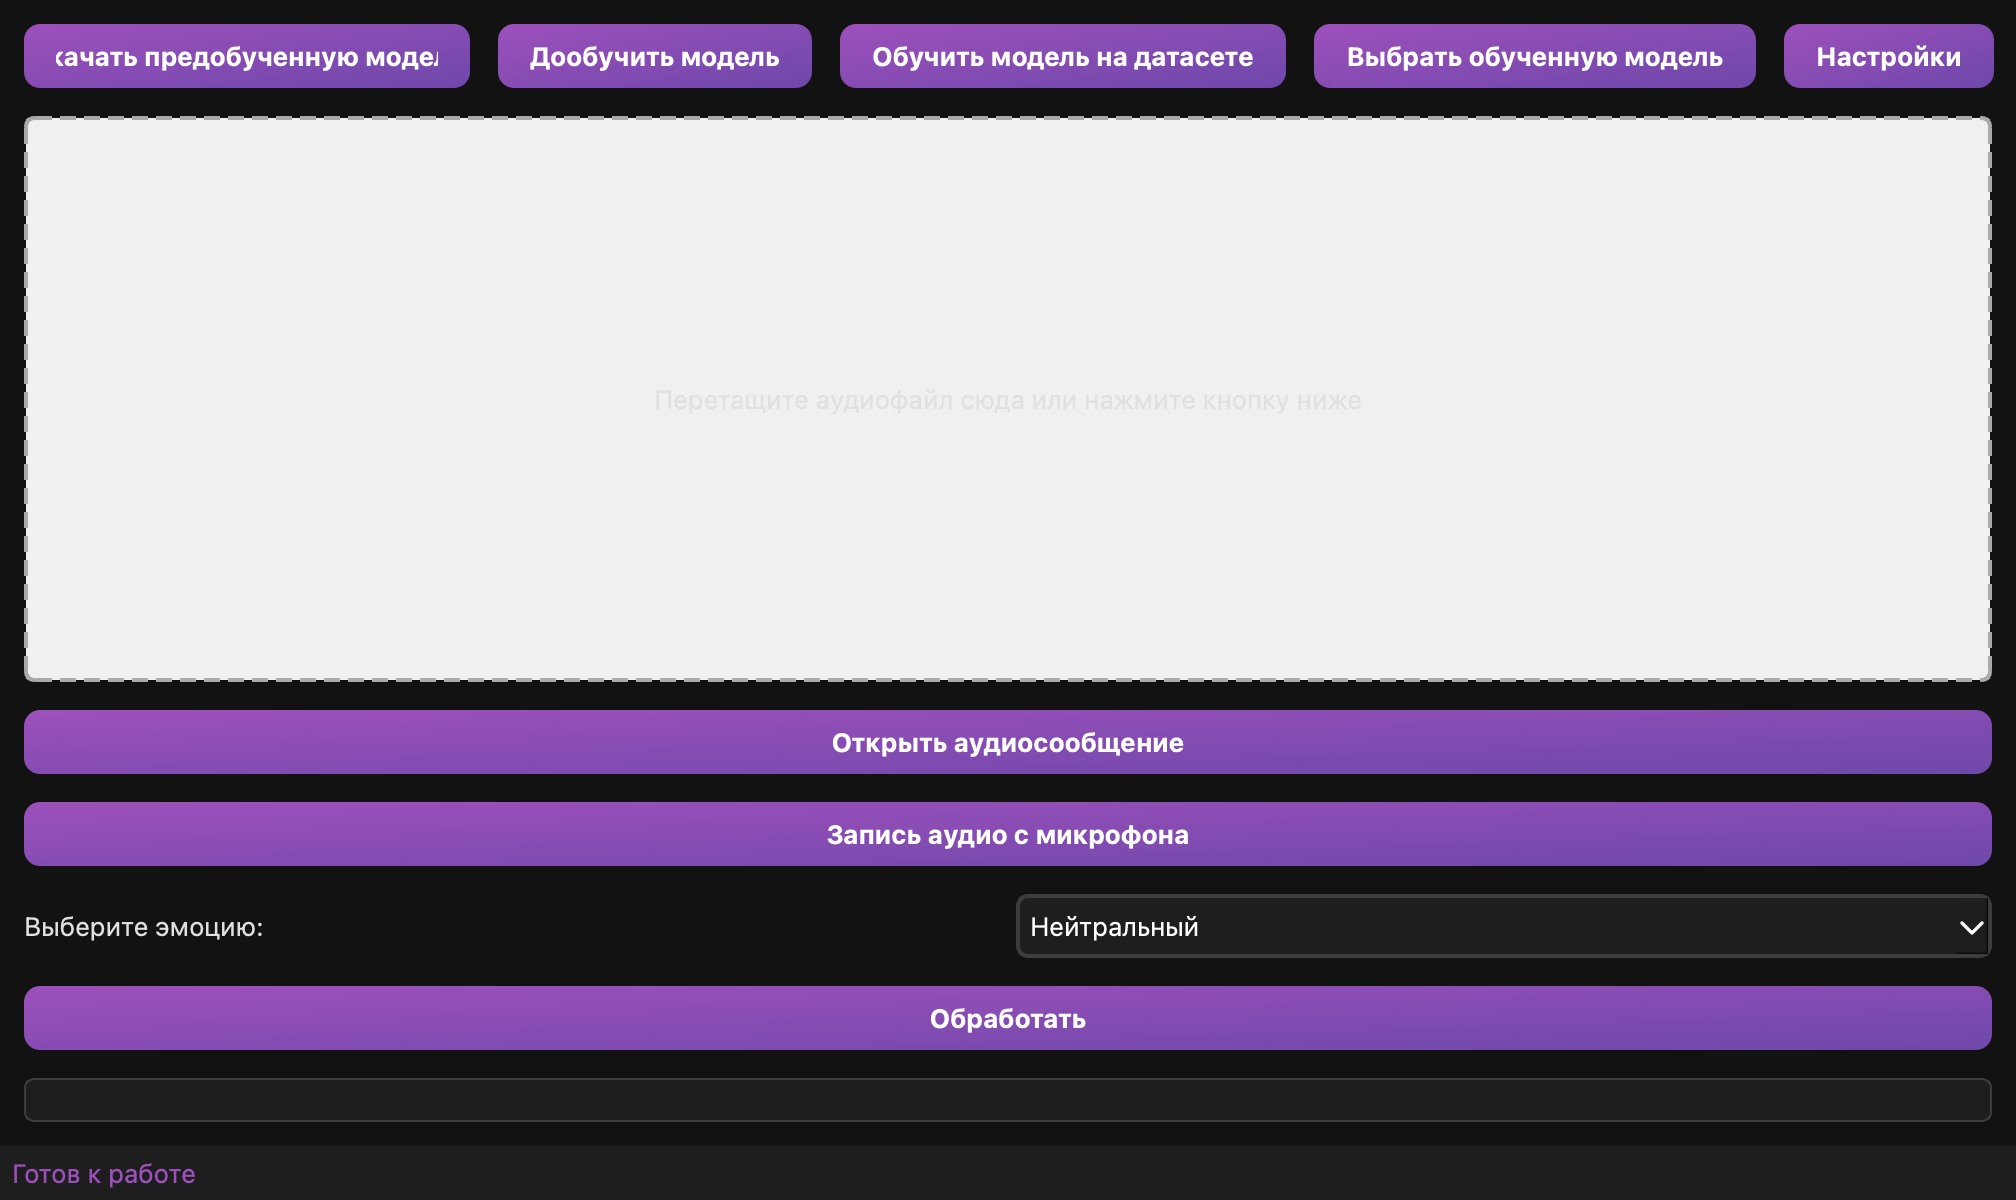
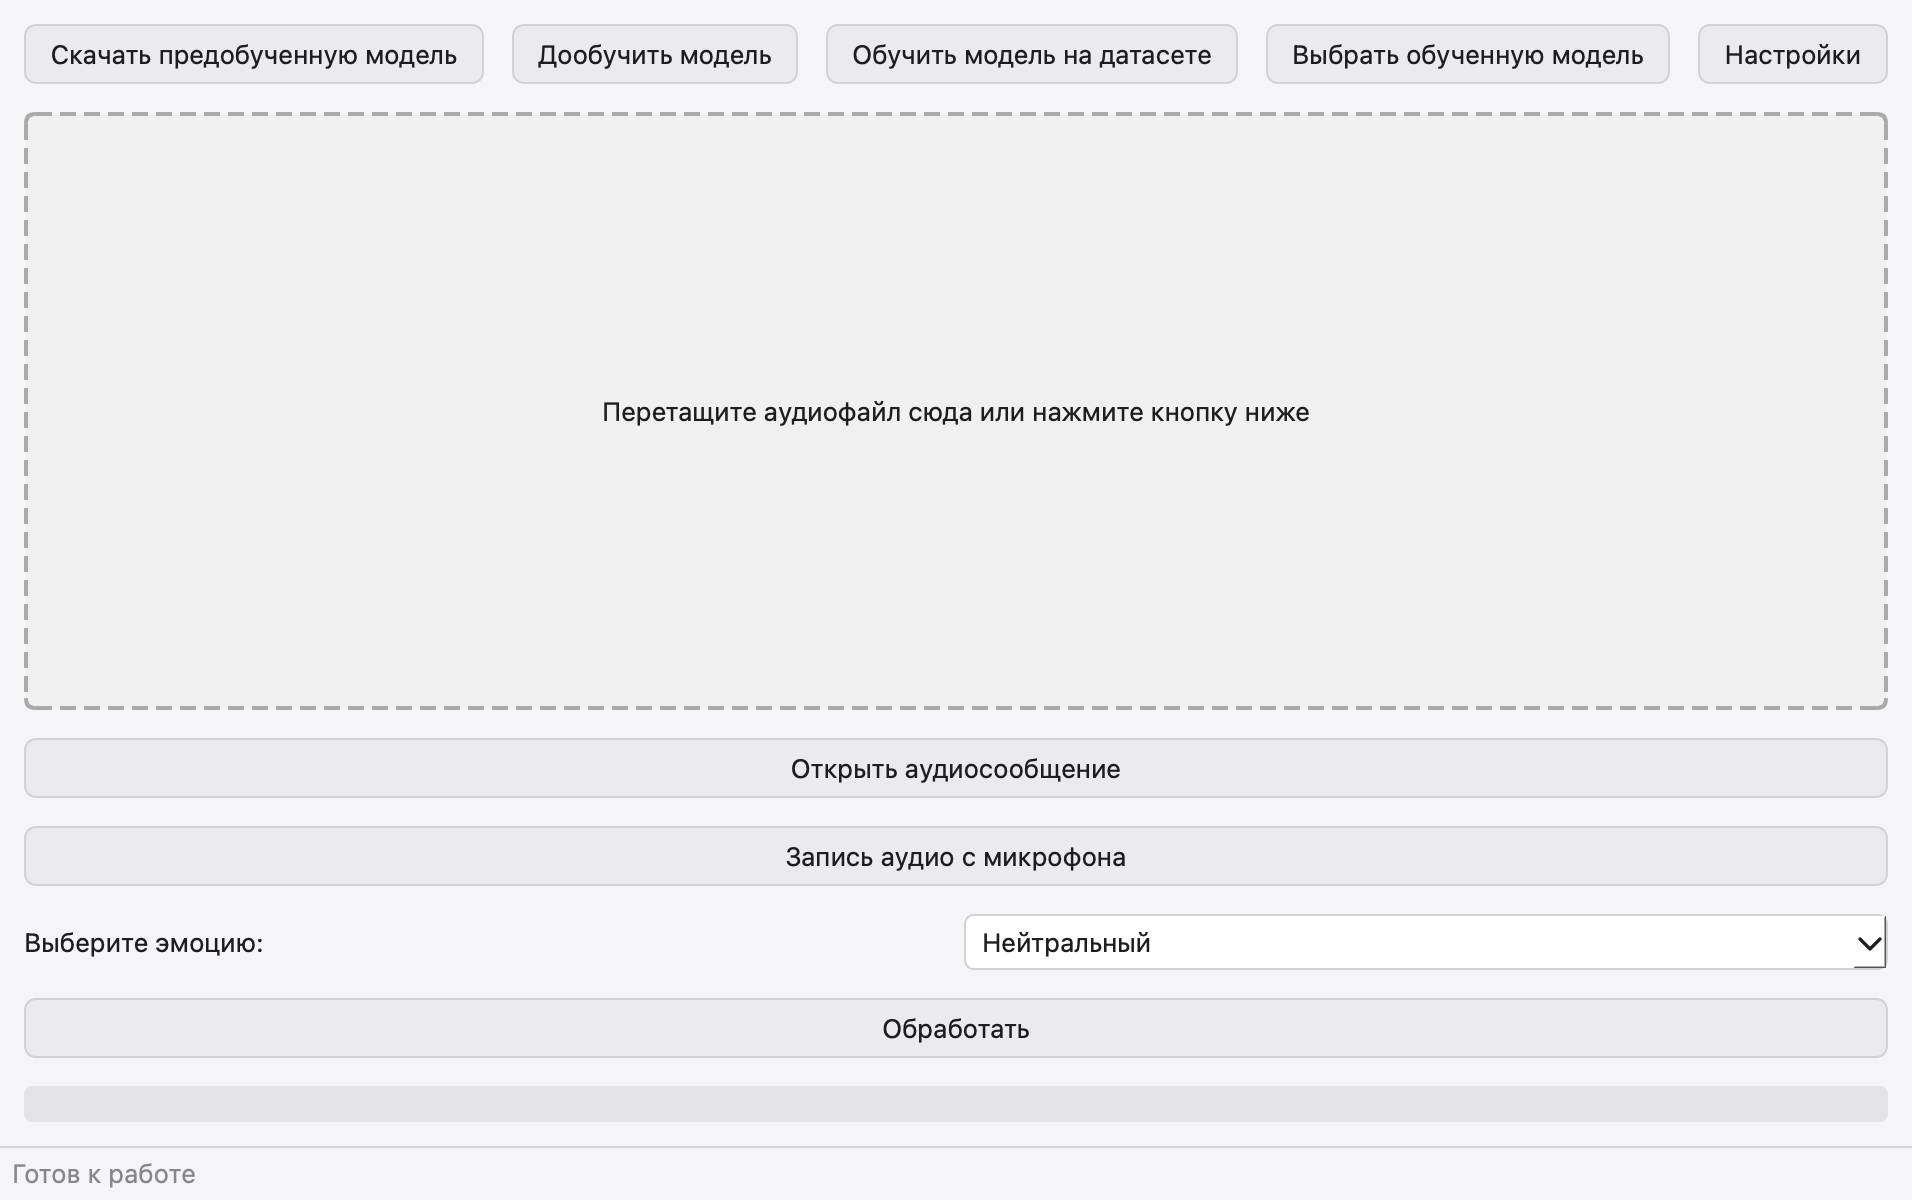
feat: finalize Apple Lavender theme and update assets

diff --git a/src/ui/main_window.py b/src/ui/main_window.py
@@ -316,125 +316,138 @@ class MainWindow(QMainWindow):
             QMessageBox.warning(self, "Ошибка", f"Не удалось открыть диалог: {str(e)}")
 
     def apply_theme(self):
-        """Применяет современную фиолетовую тему к окну"""
+        """Применяет светло-фиолетовую тему в стиле Apple HIG"""
         try:
-            logger.debug(f"Применение фиолетовой темы")
+            logger.debug(f"Применение темы Apple Lavender")
             self.setStyleSheet("""
                 QMainWindow, QDialog {
-                    background-color: #121212;
-                    color: #E0E0E0;
-                    font-family: 'Segoe UI', Arial, sans-serif;
+                    background-color: #F5F5F7;
+                    color: #1D1D1F;
+                    font-family: '.AppleSystemUIFont', 'SF Pro Text', 'Helvetica Neue', Arial, sans-serif;
                 }
                 
                 QLabel {
-                    color: #E0E0E0;
+                    color: #1D1D1F;
                 }
                 
                 QPushButton {
-                    background: qlineargradient(x1:0, y1:0, x2:1, y2:1, stop:0 #9D50BB, stop:1 #6E48AA);
-                    color: white;
-                    border: none;
-                    border-radius: 8px;
-                    padding: 8px 16px;
-                    font-weight: bold;
+                    background-color: #EBEBEE;
+                    color: #1D1D1F;
+                    border: 1px solid #D1D1D6;
+                    border-radius: 6px;
+                    padding: 6px 12px;
                     font-size: 13px;
                 }
                 
                 QPushButton:hover {
-                    background: qlineargradient(x1:0, y1:0, x2:1, y2:1, stop:0 #B162CF, stop:1 #825BBF);
+                    background-color: #E2E2E7;
+                    border: 1px solid #C7C7CC;
                 }
                 
                 QPushButton:pressed {
-                    background: #5E338A;
+                    background-color: #D1D1D6;
                 }
                 
-                QPushButton:disabled {
-                    background: #333333;
-                    color: #888888;
+                /* Основная кнопка действия (Accent) */
+                QPushButton#process_button, QPushButton#record_button, QPushButton#train_button {
+                    background-color: #5E5CE6;
+                    color: white;
+                    border: none;
+                    font-weight: 500;
+                }
+                
+                QPushButton#process_button:hover, QPushButton#record_button:hover, QPushButton#train_button:hover {
+                    background-color: #4845D2;
+                }
+                
+                QPushButton#process_button:pressed, QPushButton#record_button:pressed, QPushButton#train_button:pressed {
+                    background-color: #3B38B6;
                 }
                 
                 QComboBox, QSpinBox, QDoubleSpinBox, QLineEdit {
-                    background-color: #1E1E1E;
-                    color: #FFFFFF;
-                    border: 2px solid #3D3D3D;
-                    border-radius: 6px;
-                    padding: 5px;
-                    selection-background-color: #9D50BB;
+                    background-color: #FFFFFF;
+                    color: #1D1D1F;
+                    border: 1px solid #D1D1D6;
+                    border-radius: 5px;
+                    padding: 4px 8px;
+                    selection-background-color: #5E5CE6;
                 }
                 
                 QComboBox:focus, QSpinBox:focus, QDoubleSpinBox:focus, QLineEdit:focus {
-                    border: 2px solid #9D50BB;
+                    border: 1px solid #5E5CE6;
                 }
                 
                 QProgressBar {
-                    border: 1px solid #3D3D3D;
-                    border-radius: 5px;
+                    border: none;
+                    border-radius: 4px;
                     text-align: center;
-                    background-color: #1E1E1E;
-                    color: white;
+                    background-color: #E3E3E8;
+                    color: #1D1D1F;
+                    height: 8px;
                 }
                 
                 QProgressBar::chunk {
-                    background-color: #9D50BB;
-                    width: 10px;
+                    background-color: #5E5CE6;
+                    border-radius: 4px;
                 }
                 
                 QGroupBox {
-                    border: 2px solid #3D3D3D;
+                    border: 1px solid #D1D1D6;
                     border-radius: 10px;
-                    margin-top: 15px;
-                    font-weight: bold;
-                    color: #9D50BB;
+                    margin-top: 20px;
+                    padding-top: 15px;
+                    font-weight: 600;
+                    background-color: #FFFFFF;
                 }
                 
                 QGroupBox::title {
                     subcontrol-origin: margin;
-                    left: 10px;
-                    padding: 0 3px 0 3px;
-                }
-                
-                QScrollBar:vertical {
-                    border: none;
-                    background: #121212;
-                    width: 10px;
-                    margin: 0px 0px 0px 0px;
-                }
-                
-                QScrollBar::handle:vertical {
-                    background: #3D3D3D;
-                    min-height: 20px;
-                    border-radius: 5px;
-                }
-                
-                QScrollBar::handle:vertical:hover {
-                    background: #9D50BB;
+                    left: 15px;
+                    padding: 0 5px;
+                    color: #5E5CE6;
                 }
                 
                 QStatusBar {
-                    background: #1E1E1E;
-                    color: #9D50BB;
+                    background: #F5F5F7;
+                    color: #86868B;
+                    border-top: 1px solid #D1D1D6;
                 }
                 
                 QMenuBar {
-                    background-color: #1E1E1E;
-                    color: #E0E0E0;
+                    background-color: #F5F5F7;
+                    color: #1D1D1F;
+                    border-bottom: 1px solid #D1D1D6;
                 }
                 
                 QMenuBar::item:selected {
-                    background-color: #9D50BB;
+                    background-color: #EBEBEE;
                 }
                 
                 QMenu {
-                    background-color: #1E1E1E;
-                    color: #E0E0E0;
-                    border: 1px solid #3D3D3D;
+                    background-color: #FFFFFF;
+                    color: #1D1D1F;
+                    border: 1px solid #D1D1D6;
+                    border-radius: 6px;
                 }
                 
                 QMenu::item:selected {
-                    background-color: #9D50BB;
+                    background-color: #5E5CE6;
+                    color: white;
+                }
+                
+                /* Специальный стиль для области сброса файлов */
+                #drop_area {
+                    background-color: #FBFBFF;
+                    border: 2px dashed #D1D1D6;
+                    border-radius: 12px;
+                }
+                
+                #drop_area:hover {
+                    border: 2px dashed #5E5CE6;
+                    background-color: #F0F0FF;
                 }
             """)
-            logger.debug("Фиолетовая тема успешно применена")
+            logger.debug("Тема Apple Lavender успешно применена")
         except Exception as e:
             error_report = create_error_report(e, "Ошибка при применении стиля")
             logger.error(f"Ошибка при применении стиля: {str(e)}")

diff --git a/generate_metrics.py b/generate_metrics.py
@@ -10,30 +10,32 @@ def generate_metrics():
     train_acc = 0.5 + 0.4 * (1 - np.exp(-0.3 * epochs))
     val_acc = 0.48 + 0.38 * (1 - np.exp(-0.25 * epochs))
     
-    # Использование фиолетовой темы
-    plt.style.use('dark_background')
-    plt.figure(figsize=(10, 5))
+    # Использование светлой темы в стиле Apple
+    plt.style.use('default')
+    plt.figure(figsize=(10, 5), facecolor='#F5F5F7')
     
-    plt.subplot(1, 2, 1)
-    plt.plot(epochs, train_loss, color='#9D50BB', linewidth=2, label='Train Loss')
-    plt.plot(epochs, val_loss, color='#6E48AA', linewidth=2, linestyle='--', label='Val Loss')
-    plt.title('Training and Validation Loss', color='#9D50BB')
-    plt.xlabel('Epochs')
-    plt.ylabel('Loss')
-    plt.legend()
-    plt.grid(True, alpha=0.2)
+    ax1 = plt.subplot(1, 2, 1)
+    ax1.set_facecolor('#FFFFFF')
+    plt.plot(epochs, train_loss, color='#5E5CE6', linewidth=2.5, label='Train Loss')
+    plt.plot(epochs, val_loss, color='#AF52DE', linewidth=2.5, linestyle=':', label='Val Loss')
+    plt.title('Training and Validation Loss', color='#1D1D1F', fontsize=12, fontweight='bold')
+    plt.xlabel('Epochs', color='#86868B')
+    plt.ylabel('Loss', color='#86868B')
+    plt.legend(frameon=False)
+    plt.grid(True, alpha=0.15, color='#86868B')
     
-    plt.subplot(1, 2, 2)
-    plt.plot(epochs, train_acc, color='#9D50BB', linewidth=2, label='Train Acc')
-    plt.plot(epochs, val_acc, color='#6E48AA', linewidth=2, linestyle='--', label='Val Acc')
-    plt.title('Training and Validation Accuracy', color='#9D50BB')
-    plt.xlabel('Epochs')
-    plt.ylabel('Accuracy')
-    plt.legend()
-    plt.grid(True, alpha=0.2)
+    ax2 = plt.subplot(1, 2, 2)
+    ax2.set_facecolor('#FFFFFF')
+    plt.plot(epochs, train_acc, color='#5E5CE6', linewidth=2.5, label='Train Acc')
+    plt.plot(epochs, val_acc, color='#AF52DE', linewidth=2.5, linestyle=':', label='Val Acc')
+    plt.title('Training and Validation Accuracy', color='#1D1D1F', fontsize=12, fontweight='bold')
+    plt.xlabel('Epochs', color='#86868B')
+    plt.ylabel('Accuracy', color='#86868B')
+    plt.legend(frameon=False)
+    plt.grid(True, alpha=0.15, color='#86868B')
     
     plt.tight_layout()
-    plt.savefig('assets/metrics/training_performance.png')
+    plt.savefig('assets/metrics/training_performance.png', dpi=300)
     print("Metrics chart saved to assets/metrics/training_performance.png")
 
 if __name__ == "__main__":